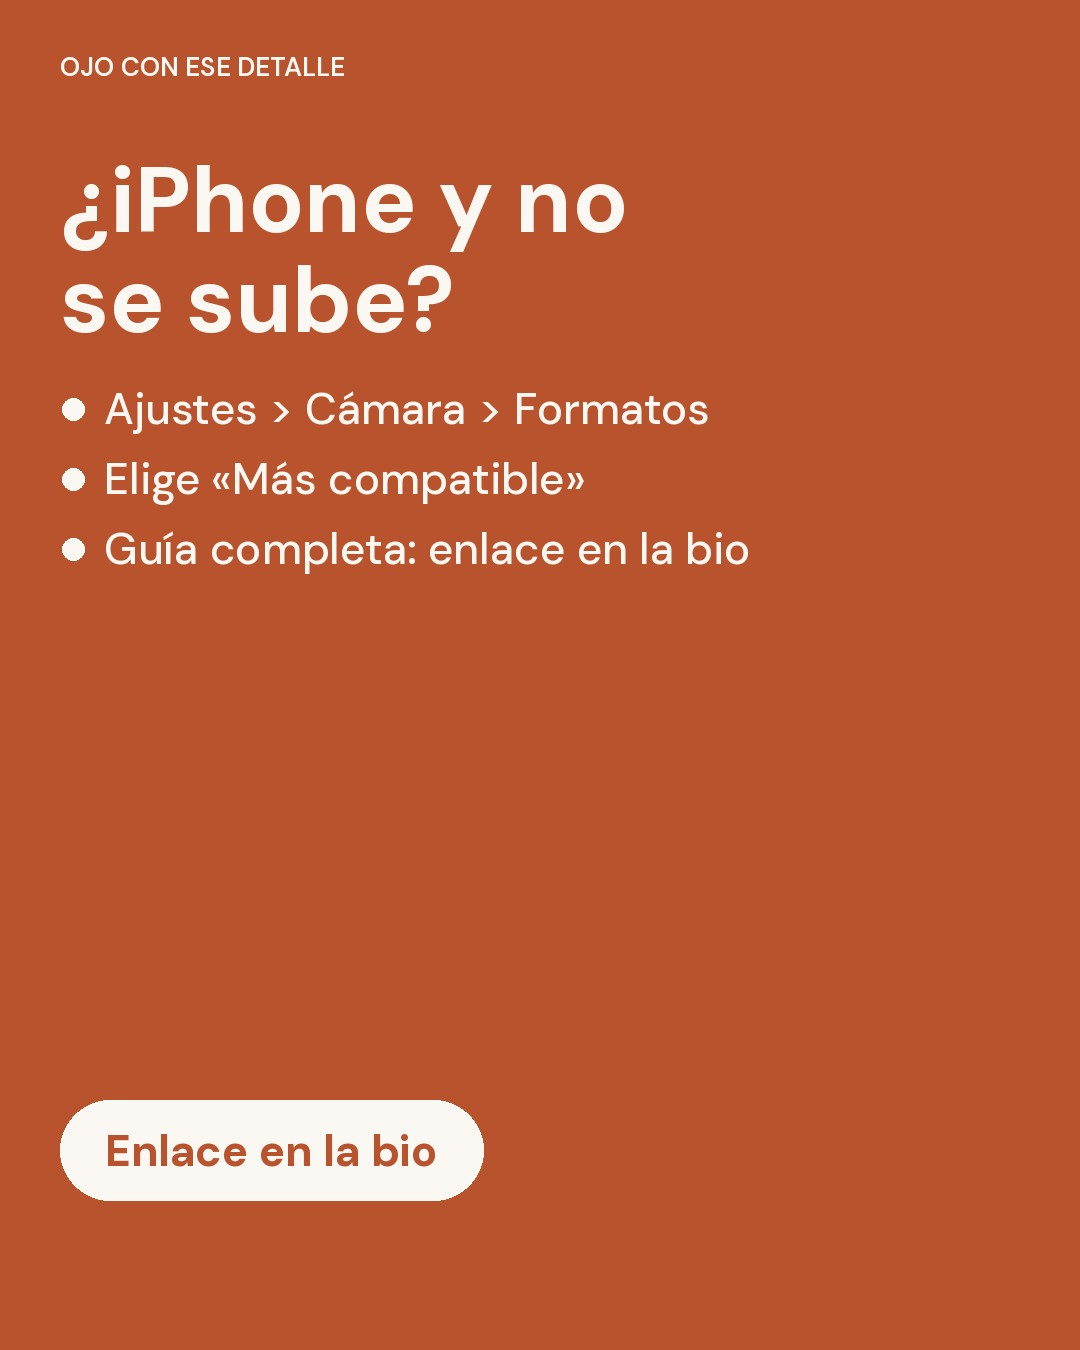
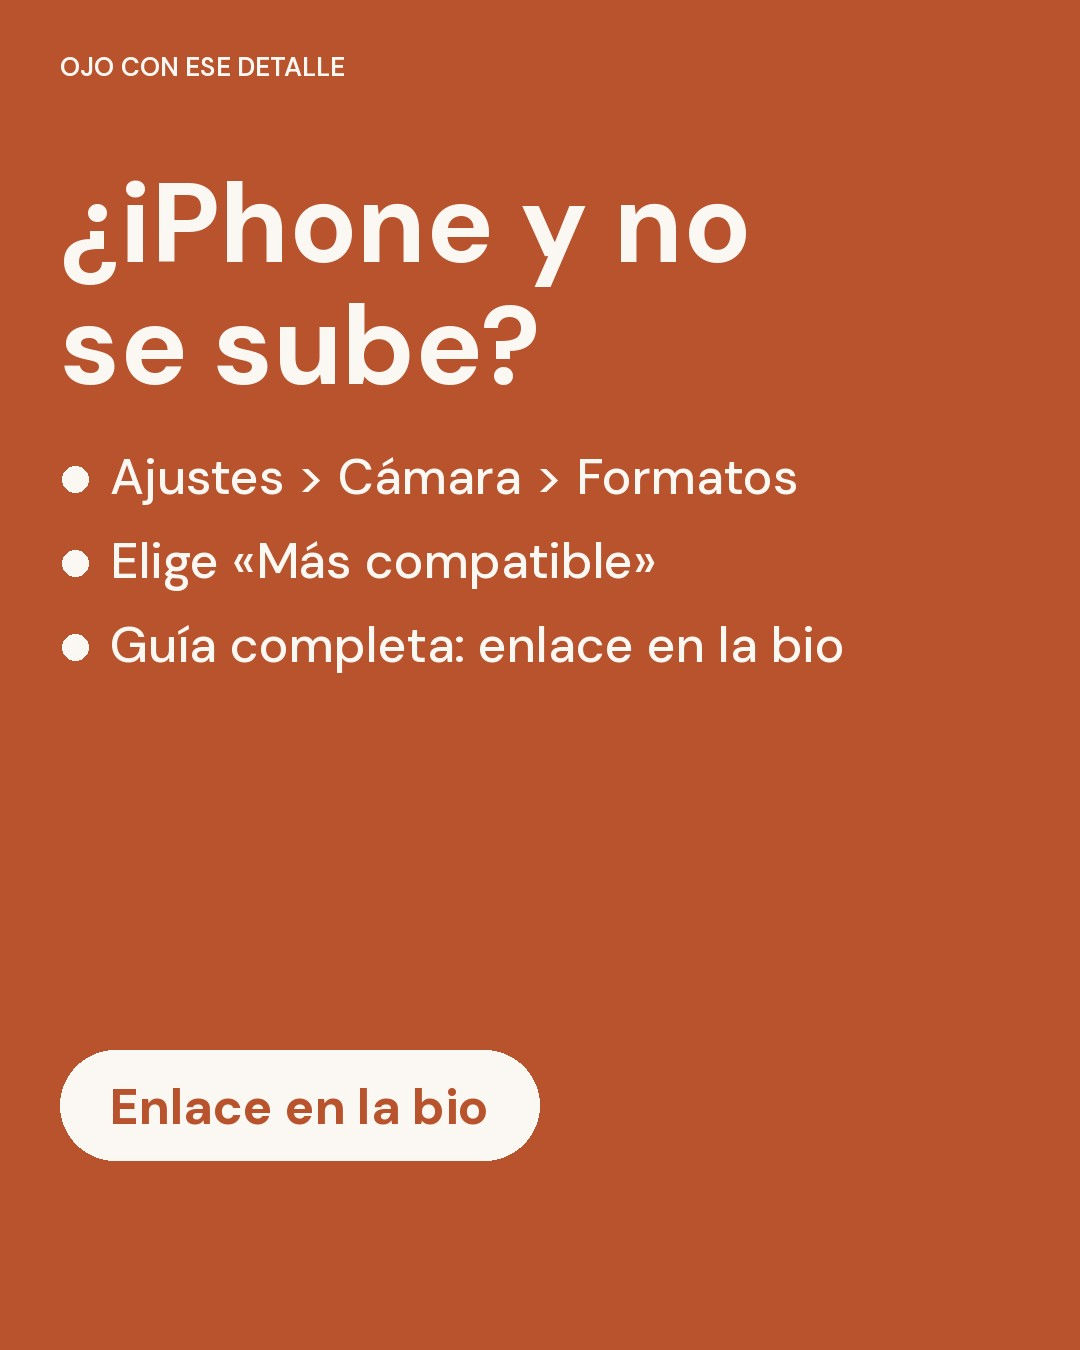
Carruseles 30-31 oct en estilo v2 con escenas nuevas
Claude-Session: https://claude.ai/code/session_01A2ZK7ZZiebzPQrNhvhP4Ho

Changed region(s): [[0.0611, 0.1244, 0.7333, 0.4356], [0.0306, 0.7778, 0.5194, 0.9022], [0.0611, 0.4667, 0.7944, 0.4978]]

diff --git a/campanas/mascotas-navidad-reyes-2026/estilo-v2/render_v2.py b/campanas/mascotas-navidad-reyes-2026/estilo-v2/render_v2.py
@@ -306,22 +306,26 @@ def slide(s, idx, total):
             d.text((400, y + 140), it["price"], font=font(58), fill=TERRA)
             y += 330
     else:  # cta
-        im = Image.new("RGB", (W, H), TERRA)
+        calm = s.get("calm")
+        bg, fg = (CREAM, INK) if calm else (TERRA, CREAM)
+        im = Image.new("RGB", (W, H), bg)
         d = ImageDraw.Draw(im)
-        d.text((60, 50), "OJO CON ESE DETALLE", font=font(26, "SemiBold"), fill=CREAM)
-        y = 140
+        d.text((60, 50), "OJO CON ESE DETALLE", font=font(26, "SemiBold"), fill=GREEN if calm else CREAM)
+        y = 150
         for line in s["big"]:
-            d.text((60, y), line, font=font(92), fill=CREAM)
-            y += 100
-        y += 40
+            d.text((60, y), line, font=font(112), fill=fg)
+            y += 122
+        y += 50
         for line in s["lines"]:
-            d.ellipse((62, y + 18, 84, y + 40), fill=CREAM)
-            d.text((104, y), line, font=font(44, "Medium"), fill=CREAM)
-            y += 70
-        btn, f = s.get("button", "Enlace en la bio"), font(44)
+            d.ellipse((62, y + 22, 88, y + 48), fill=fg)
+            d.text((110, y), line, font=font(50, "Medium"), fill=fg)
+            y += 84
+        btn, f = s.get("button", "Enlace en la bio"), font(50)
         tw = d.textlength(btn, font=f)
-        d.rounded_rectangle((60, H - 250, 60 + tw + 90, H - 150), 50, fill=CREAM)
-        d.text((105, H - 228), btn, font=f, fill=TERRA)
+        d.rounded_rectangle((60, H - 300, 60 + tw + 100, H - 190), 55, fill=fg)
+        d.text((110, H - 276), btn, font=f, fill=bg)
+        if s.get("note"):
+            d.text((60, H - 140), s["note"], font=font(28, "Regular"), fill=fg)
     if idx == 0 and total > 1:
         d = ImageDraw.Draw(im)
         f, tag = font(28, "SemiBold"), "Desliza  →"
